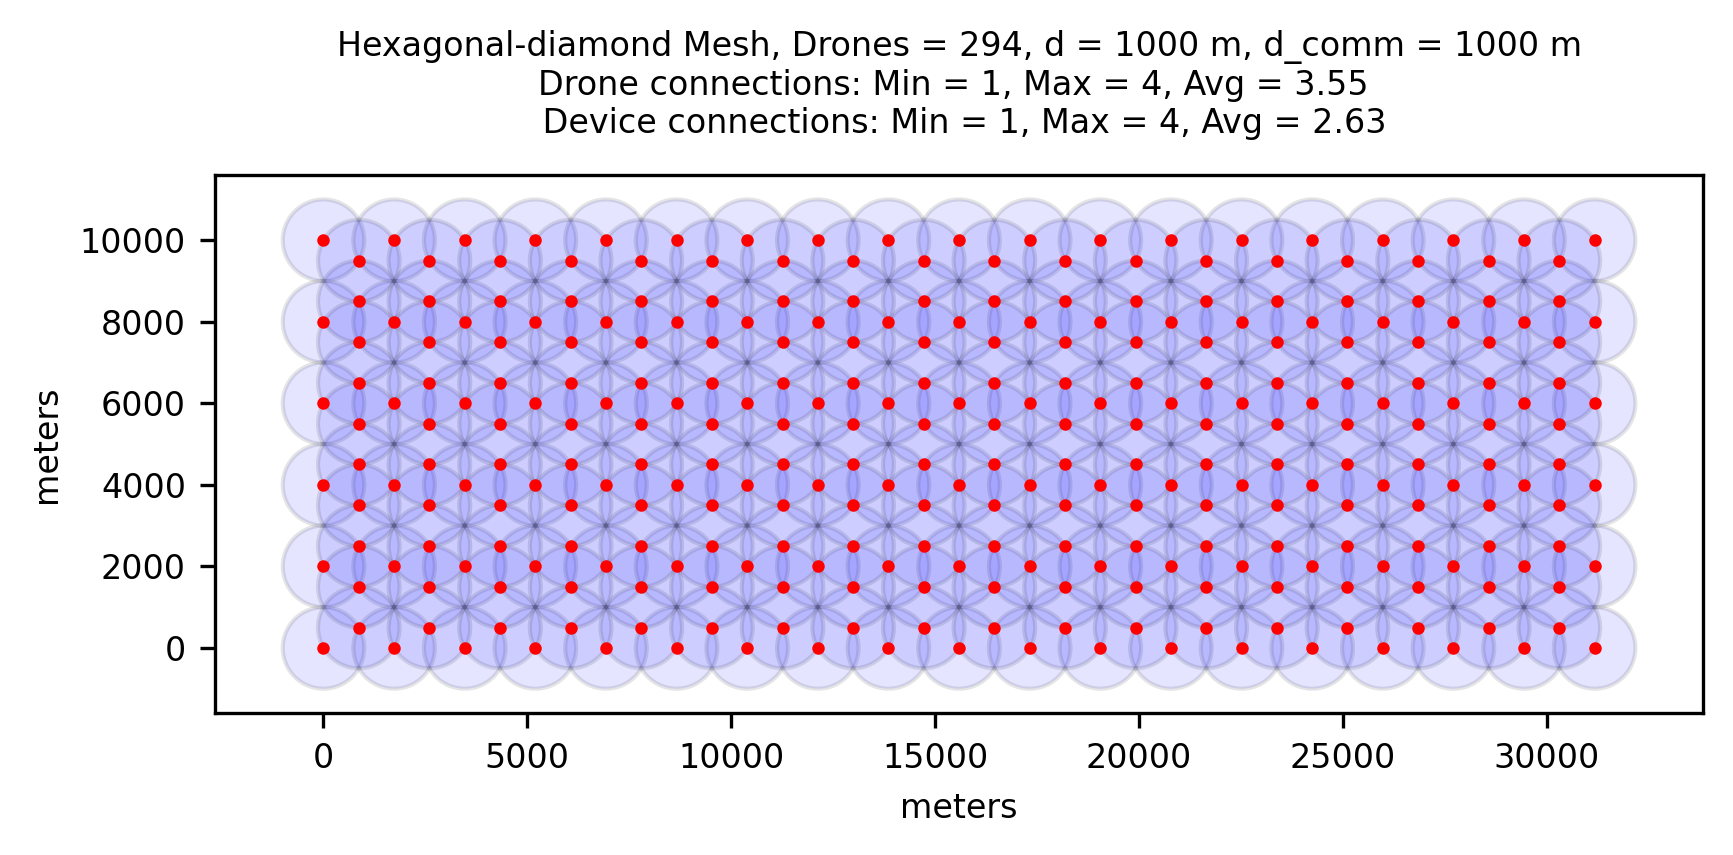
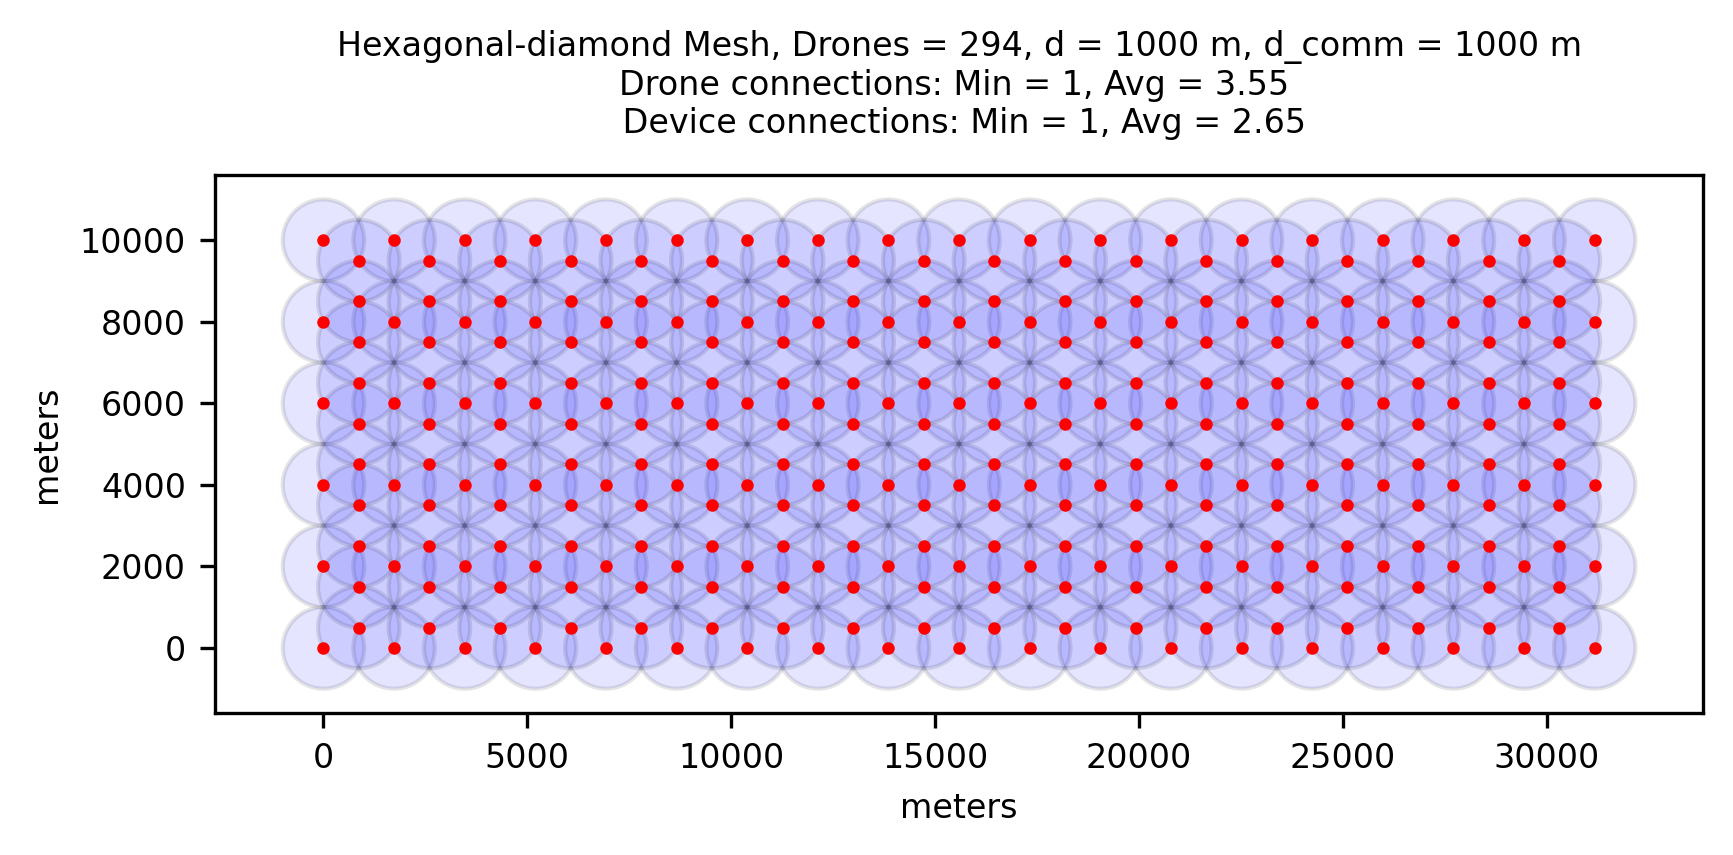
changed so fig does not show max connectiosn

Changed region(s): [[0.3116, 0.0608, 0.8102, 0.1825]]

diff --git a/mesh_design.py b/mesh_design.py
@@ -73,8 +73,8 @@ def plot_drone_positions(grid_name: str,
 
     title_text = (
     f"{grid_name} Mesh, Drones = {num_drones}, d = {distance} m, d_comm = {range} m\n"
-    f"Drone connections: Min = {min_drones_inside}, Max = {max_drones_inside}, Avg = {avg_drones_inside:.2f} \n "
-    f"Device connections: Min = {min_device_connections}, Max = {max_device_connections}, Avg = {avg_device_connections:.2f}"
+    f"Drone connections: Min = {min_drones_inside}, Avg = {avg_drones_inside:.2f} \n "
+    f"Device connections: Min = {min_device_connections}, Avg = {avg_device_connections:.2f}"
 )
 
     ax.set_title(title_text, fontsize=font_size, pad=10)  # pad adds space above plot
@@ -336,7 +336,7 @@ scale_factor = 1
 test_dim = (length*scale_factor, width*scale_factor)
 test_distance = 1000
 test_range = 1000
-sample_rate = (100, 50)
+sample_rate = (1000, 1000)
 file_folder = "./mesh_design_out"
 
 drone_pos_hex = drone_hex_grid(test_dim, test_distance, extra_edge_drones = True)
